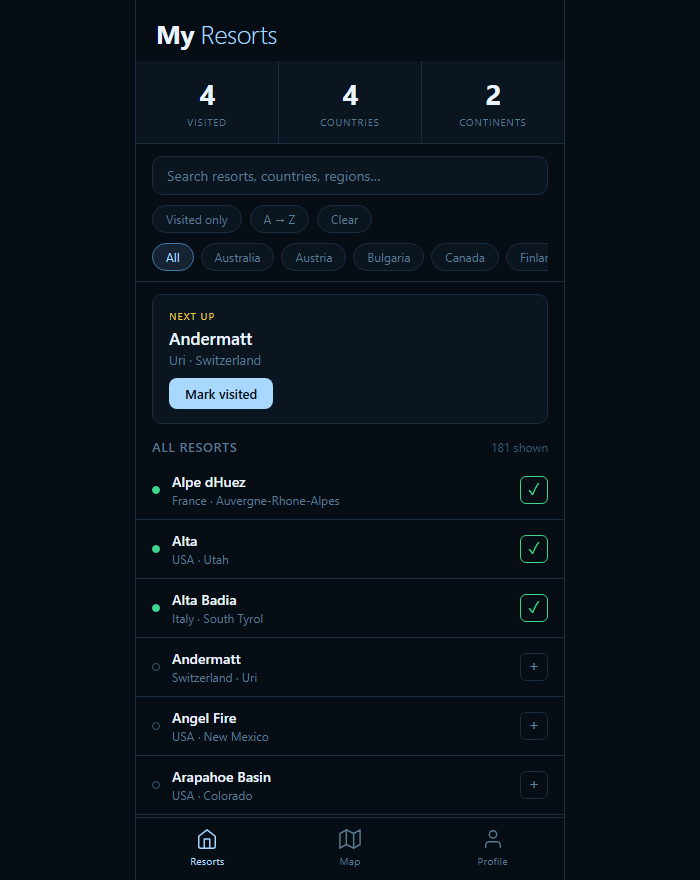
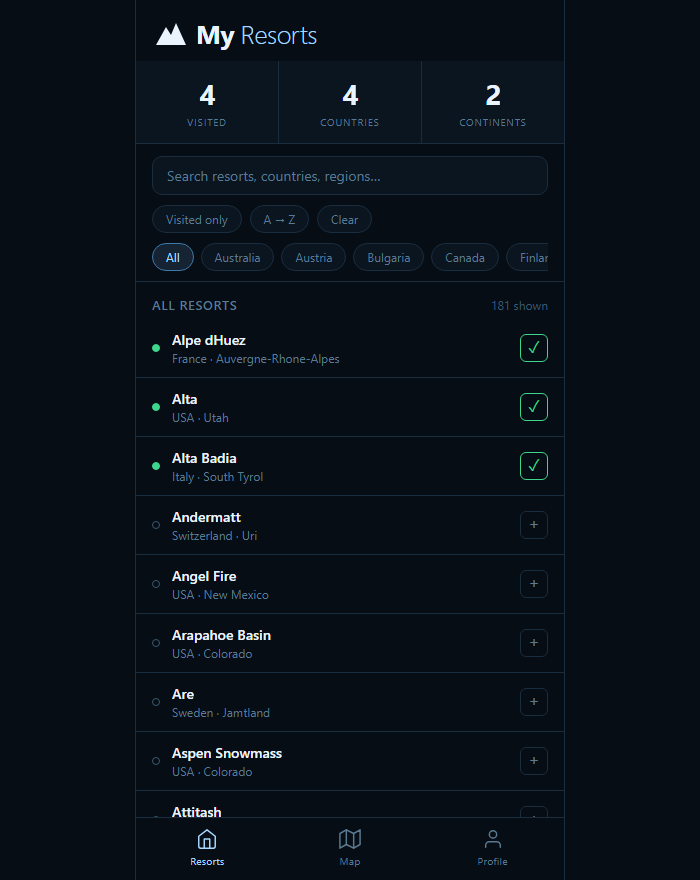
Add wishlist and Unvisited first sort

diff --git a/index.html b/index.html
@@ -258,6 +258,16 @@
   }
   .toggle-btn:hover { border-color: var(--ice-dim); color: var(--ice); }
   .toggle-btn.visited { border-color: var(--green); color: var(--green); }
+  .star-btn {
+    background: none; border: none; cursor: pointer; flex-shrink: 0;
+    color: var(--muted); font-size: 18px; line-height: 1;
+    width: 28px; height: 28px; margin-right: 4px;
+    transition: color 0.12s, transform 0.12s;
+  }
+  .star-btn:hover { color: var(--gold); }
+  .star-btn.on { color: var(--gold); }
+  .star-btn:active { transform: scale(0.85); }
+  .star-btn[hidden] { display: none; }
 
   .empty-state {
     padding: 48px 20px;
@@ -372,6 +382,7 @@
         <input id="search" type="text" placeholder="Search resorts, countries, regions…">
         <div id="filter-row">
           <button class="chip" id="chip-visited">Visited only</button>
+          <button class="chip" id="chip-wishlist">★ Wishlist</button>
           <button class="chip" id="chip-sort">A → Z</button>
           <button class="chip" id="chip-clear">Clear</button>
         </div>
@@ -444,7 +455,8 @@
         const p = l.split(',');
         if (p.length < 5) return null;
         return { name: p[0].trim(), country: p[1].trim(), region: p[2].trim(),
-                 description: p[3].trim(), visited: p[4].trim() === 'true' };
+                 description: p[3].trim(), visited: p[4].trim() === 'true',
+                 wishlist: (p[5] || '').trim() === 'true' };
       })
       .filter(Boolean);
 
@@ -468,8 +480,9 @@
   let searchQuery = '';
   let selectedCountry = 'All';
   let visitedOnly = false;
-  let sortMode = 0; // 0=A-Z 1=Z-A 2=visited first
-  const sortLabels = ['A → Z', 'Z → A', 'Visited first'];
+  let wishlistOnly = false;
+  let sortMode = 0; // 0=A-Z 1=Z-A 2=visited first 3=unvisited first
+  const sortLabels = ['A → Z', 'Z → A', 'Visited first', 'Unvisited first'];
 
   const CONTINENTS = {
     'Canada': 'North America', 'USA': 'North America',
@@ -507,8 +520,14 @@
       render();
     });
 
+    document.getElementById('chip-wishlist').addEventListener('click', () => {
+      wishlistOnly = !wishlistOnly;
+      document.getElementById('chip-wishlist').classList.toggle('active', wishlistOnly);
+      render();
+    });
+
     document.getElementById('chip-sort').addEventListener('click', () => {
-      sortMode = (sortMode + 1) % 3;
+      sortMode = (sortMode + 1) % sortLabels.length;
       document.getElementById('chip-sort').textContent = sortLabels[sortMode];
       render();
     });
@@ -517,6 +536,8 @@
       searchQuery = '';
       selectedCountry = 'All';
       visitedOnly = false;
+      wishlistOnly = false;
+      document.getElementById('chip-wishlist').classList.remove('active');
       sortMode = 0;
       document.getElementById('search').value = '';
       document.getElementById('chip-visited').classList.remove('active');
@@ -573,13 +594,26 @@
     btn.textContent = resort.visited ? '✓' : '+';
     btn.addEventListener('click', () => {
       resort.visited = !resort.visited;
+      if (resort.visited) resort.wishlist = false; // skied it — off the wishlist
       window.api.saveResorts(resorts);
       render();
       buildProfilePage();
       buildMapPage();
     });
 
-    row.append(dot, info, btn);
+    const star = document.createElement('button');
+    star.className = 'star-btn' + (resort.wishlist ? ' on' : '');
+    star.textContent = resort.wishlist ? '★' : '☆';
+    star.title = resort.wishlist ? 'Remove from wishlist' : 'Add to wishlist';
+    star.hidden = resort.visited;
+    star.addEventListener('click', () => {
+      resort.wishlist = !resort.wishlist;
+      window.api.saveResorts(resorts);
+      render();
+      buildProfilePage();
+    });
+
+    row.append(dot, info, star, btn);
     return row;
   }
 
@@ -587,6 +621,7 @@
     let list = resorts.filter(r => {
       if (selectedCountry !== 'All' && r.country !== selectedCountry) return false;
       if (visitedOnly && !r.visited) return false;
+      if (wishlistOnly && !r.wishlist) return false;
       if (searchQuery) {
         const hay = (r.name + r.country + r.region + r.description).toLowerCase();
         if (!hay.includes(searchQuery)) return false;
@@ -596,7 +631,8 @@
 
     if (sortMode === 0) list.sort((a, b) => a.name.localeCompare(b.name));
     else if (sortMode === 1) list.sort((a, b) => b.name.localeCompare(a.name));
-    else list.sort((a, b) => (b.visited - a.visited) || a.name.localeCompare(b.name));
+    else if (sortMode === 2) list.sort((a, b) => (b.visited - a.visited) || a.name.localeCompare(b.name));
+    else list.sort((a, b) => (a.visited - b.visited) || a.name.localeCompare(b.name));
 
     return list;
   }
@@ -675,7 +711,7 @@
 
     const countries = new Set(visited.map(r => r.country));
     const continents = new Set(visited.map(r => continent(r.country)));
-    const wishlist = resorts.filter(r => !r.visited).length;
+    const wishlist = resorts.filter(r => r.wishlist && !r.visited).length;
 
     const statsEl = document.getElementById('profile-stats');
     statsEl.innerHTML = '';

diff --git a/main.js b/main.js
@@ -33,12 +33,12 @@ ipcMain.handle('load-resorts', () => {
     .map(l => {
       const p = l.split(',');
       if (p.length < 5) return null;
-      return { name: p[0].trim(), country: p[1].trim(), region: p[2].trim(), description: p[3].trim(), visited: p[4].trim() === 'true' };
+      return { name: p[0].trim(), country: p[1].trim(), region: p[2].trim(), description: p[3].trim(), visited: p[4].trim() === 'true', wishlist: (p[5] || '').trim() === 'true' };
     })
     .filter(Boolean);
 });
 
 ipcMain.handle('save-resorts', (_e, resorts) => {
-  const lines = resorts.map(r => [r.name, r.country, r.region, r.description, r.visited].join(','));
+  const lines = resorts.map(r => [r.name, r.country, r.region, r.description, r.visited, !!r.wishlist].join(','));
   fs.writeFileSync(RESORTS_FILE, lines.join('\n'), 'utf8');
 });

diff --git a/README.md b/README.md
@@ -8,8 +8,9 @@ A dark-themed tracker for logging the ski resorts you've visited across 181 reso
 
 ## Features
 
-- **Search & filter** — full-text search across name, country, region and description; country chips; "visited only" toggle
-- **Sorting** — A→Z, Z→A, or visited first
+- **Search & filter** — full-text search across name, country, region and description; country chips; "visited only" and "wishlist" toggles
+- **Sorting** — A→Z, Z→A, visited first, or unvisited first
+- **Wishlist** — star resorts you want to ski, filter to just your wishlist; resorts drop off automatically once visited
 - **Live stats** — resorts visited, countries, and continents, recalculated on every change
 - **Map & Profile tabs** — breakdown of progress by country and continent
 - **Persistence** — saves to a local data file on desktop, or to `localStorage` in the browser
